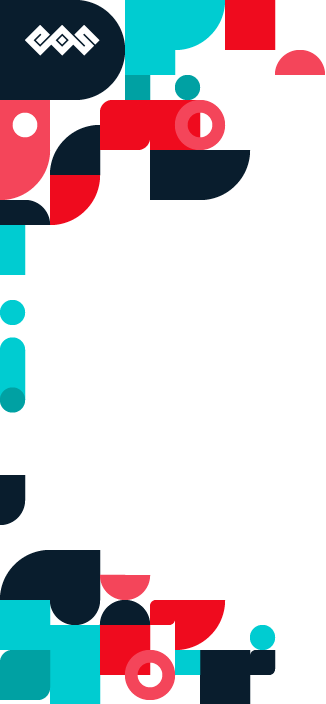
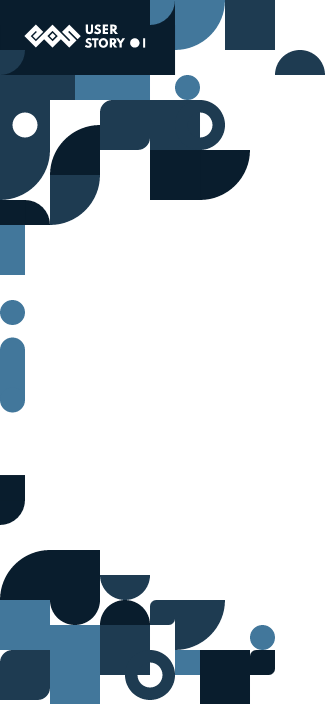
Updated color and illustrations

diff --git a/src/assets/scss/variables/colors.scss b/src/assets/scss/variables/colors.scss
@@ -1,7 +1,6 @@
-$primary: $eos-cerulean-500;
-$primary-light: $eos-cerulean-100;
+$primary: #1E3B51;
+$light-blue: $eos-cerulean-500;
 
-$light-color: #FFFFFF;
 $dark-color: #1A2A3A;
 $gray-bg: #eaeaea;
 $light-gray: #777777;
@@ -10,23 +9,14 @@ $light-green: #66DC71;
 $alert: #E6001A;
 $shadow-color: #D3EBF0;
 $box-shadow: 0 0px 24px 2px rgba(70, 45, 45, 0.14);
-
-$authentication-orange-bg: $primary;
-$authentication-white-bg: $light-color;
-
-$nav-bg: $light-color;
-
-$dropdown-colored-bg: $light-color;
-
-$btn-default-bg: $primary;
-$btn-hover: $primary-light;
-$btn-tabs-bg: $light-color;
-
+$authentication-white-bg: $eos-white;
+$nav-bg: $eos-white;
+$dropdown-colored-bg: $eos-white;
+$btn-default-bg: $eos-cerulean-900;
+$btn-hover: $eos-cerulean-900;
+$btn-tabs-bg: $eos-white;
 $timeline-success-color: $light-green;
-
 $hyper-link-color: #008ACF;
 $hyper-link-hover-color: #15578f;
-
 $drag-drop: #bdbdbd;
-
-$status-tabs-bg: $primary;
+$status-tabs-bg: $light-blue;

diff --git a/src/assets/scss/components/roadmap.scss b/src/assets/scss/components/roadmap.scss
@@ -9,7 +9,7 @@
     border-top: 1px solid gray;
     content: '';
     position: absolute;
-    top: 38px;
+    top: 22px;
     width: 100%;
     z-index: 1;
   }
@@ -20,6 +20,8 @@
   }
 
   .btn-tabs {
+    border-bottom: 2px solid transparent;
+    border-radius: 0;
 
     .eos-icons {
       margin-right: 12px;
@@ -31,12 +33,9 @@
     &:focus {
       border-bottom-color: $status-tabs-bg;
       border-radius: 0px;
-      border-width: 0 0 2px 0;
-      padding: 10px 10px 8px 10px; // this hack is necessary so that the btn doesn't change size when selected. it is 10px because originally .btn has 8px, so we need to add 2px more to balance it, as the border-bottom is 2px.
     }
 
     &:focus {
-      border-bottom-color: $eos-gray-500;
       outline: transparent 0px;
     }
   }

diff --git a/src/assets/scss/components/button.scss b/src/assets/scss/components/button.scss
@@ -1,8 +1,8 @@
 .btn {
-  border: 2px solid transparent;
-  border-radius: 10px 10px 10px 0px;
-  margin: 16px 0;
-  padding: 8px 8px;
+  border: 0;
+  border-radius: 10px;
+  padding: 8px 16px;
+  text-decoration: none;
 
   &:hover {
     cursor: pointer;
@@ -11,19 +11,19 @@
   &-default {
     background-color: $btn-default-bg;
     border-color: $btn-default-bg;
-    color: $light-color;
+    color: $eos-white;
 
     &:hover {
       background-color: $btn-hover;
       border-color: $btn-hover;
-      color: $light-color;
+      color: $eos-white;
     }
   }
 
   &-highlighted {
     background-color: $light-green;
     border-color: $btn-hover;
-    color: $light-color;
+    color: $eos-white;
   }
 
   &-transparent {

diff --git a/src/assets/scss/pages/authentication.scss b/src/assets/scss/pages/authentication.scss
@@ -42,7 +42,6 @@
 }
 
 .header {
-  color: $dark-color;
   font-size: $font-size-header;
   font-weight: bold;
 
@@ -89,11 +88,10 @@
 
 .container-left {
   align-items: center;
-  background-color: $light-color;
+  background-color: $eos-white;
   background-image: url('../../images/auth-left.png');
   background-repeat: no-repeat;
   background-size: cover;
-  color: $dark-color;
   display: flex;
   flex-direction: column;
   justify-content: center;
@@ -165,7 +163,7 @@
   }
 
   .cookies-mobile {
-    background: $light-color;
+    background: $eos-white;
     bottom: 0;
     box-shadow: $box-shadow;
     display: flex;

diff --git a/src/assets/scss/components/vote.scss b/src/assets/scss/components/vote.scss
@@ -1,15 +1,15 @@
 .vote-wrapper {
   background-color: $primary;
-  border-radius: 10px 10px 10px 0px;
+  border-radius: 10px;
   padding: 4px 4px;
 
   &-voted {
-    background-color: $light-green;
+    background-color: $light-blue;
   }
 }
 
 .votes-count {
-  background-color: $light-color;
+  background-color: $eos-white;
   border-radius: 6px;
   font-size: $font-size-votes;
   font-weight: bold;
@@ -18,7 +18,7 @@
 }
 
 .vote-button {
-  color: $light-color;
+  color: $eos-white;
   font-weight: bold;
   margin: 4px 4px;
 

diff --git a/src/components/Navigation.js b/src/components/Navigation.js
@@ -49,12 +49,12 @@ const Navigation = (props) => {
       </Link>
       <nav>
         {state.auth && (
-          <Link className='link link-nav' to='/newStory'>
+          <Link className='btn btn-default' to='/newStory'>
             + New Story
           </Link>
         )}
         {!state.auth && (
-          <Link className='link link-nav' to='/login'>
+          <Link className='btn btn-default' to='/login'>
             Sign In
           </Link>
         )}

diff --git a/src/assets/scss/base/colors.scss b/src/assets/scss/base/colors.scss
@@ -6,10 +6,6 @@ $eos-blue-500: #1A2A3A;
 $eos-blue-100: #294760;
 $eos-blue-900: #091D2D;
 
-$eos-cerulean-500: #00CCD1;
-$eos-cerulean-100: #86EAE4;
-$eos-cerulean-900: #0AA5A5;
-
 $eos-red-500: #EF0B1E;
 $eos-red-100: #F4455A;
 $eos-red-900: #C90A21;
@@ -24,3 +20,5 @@ $eos-white: #ffffff;
 // User story specific colors:
 
 $eos-cerulean-50: #F5F9FA;
+$eos-cerulean-500: #42779B;
+$eos-cerulean-900: #1E3B51;

diff --git a/src/assets/scss/components/links.scss b/src/assets/scss/components/links.scss
@@ -14,16 +14,6 @@
   }
 
   &-highlighted {
-    background-color: $primary-light;
-  }
-
-  &-nav,
-  &-nav:visited,
-  &-nav:active {
-    background-color: $status-tabs-bg;
-    border-radius: 10px 10px 10px 0px;
-    color: $light-color;
-    margin: 0px 16px;
-    padding: 8px 8px;
+    background-color: $light-blue;
   }
 }

diff --git a/src/pages/MyStories.js b/src/pages/MyStories.js
@@ -180,7 +180,7 @@ const MyStories = () => {
     <>
       <Navigation />
       <div className='body-content'>
-        <div className='body-wrapper'>
+        <div className='body-wrapper my-stories'>
           <h3>My Stories</h3>
           <div className='flex flex-row'>
             <Button

diff --git a/src/assets/scss/modules/titleSearch.scss b/src/assets/scss/modules/titleSearch.scss
@@ -9,7 +9,7 @@
 
 
 .title-search-results {
-  background-color: $light-color;
+  background-color: $eos-white;
   padding: 8px 8px;
 }
 
@@ -18,7 +18,7 @@
   padding: 8px 8px;
 
   &:hover {
-    background-color: $primary-light;
+    background-color: $light-blue;
     cursor: pointer;
   }
 }

diff --git a/src/assets/scss/pages/home.scss b/src/assets/scss/pages/home.scss
@@ -14,7 +14,7 @@ $subheader-font-size: 18px;
 
 .options-bar {
   align-items: center;
-  background-color: $light-color;
+  background-color: $eos-white;
   border-radius: 10px;
   margin: 16px 0px 16px 0px;
   padding: 8px 20px;

diff --git a/src/assets/scss/layout/layout.scss b/src/assets/scss/layout/layout.scss
@@ -4,7 +4,7 @@ $body-content-background: $eos-cerulean-50;
 // Classes
 
 body {
-  color: $eos-blue-900;
+  color: $eos-black;
   font-family: $font-family;
   font-size: $font-size-general;
   line-height: 1.5em;
